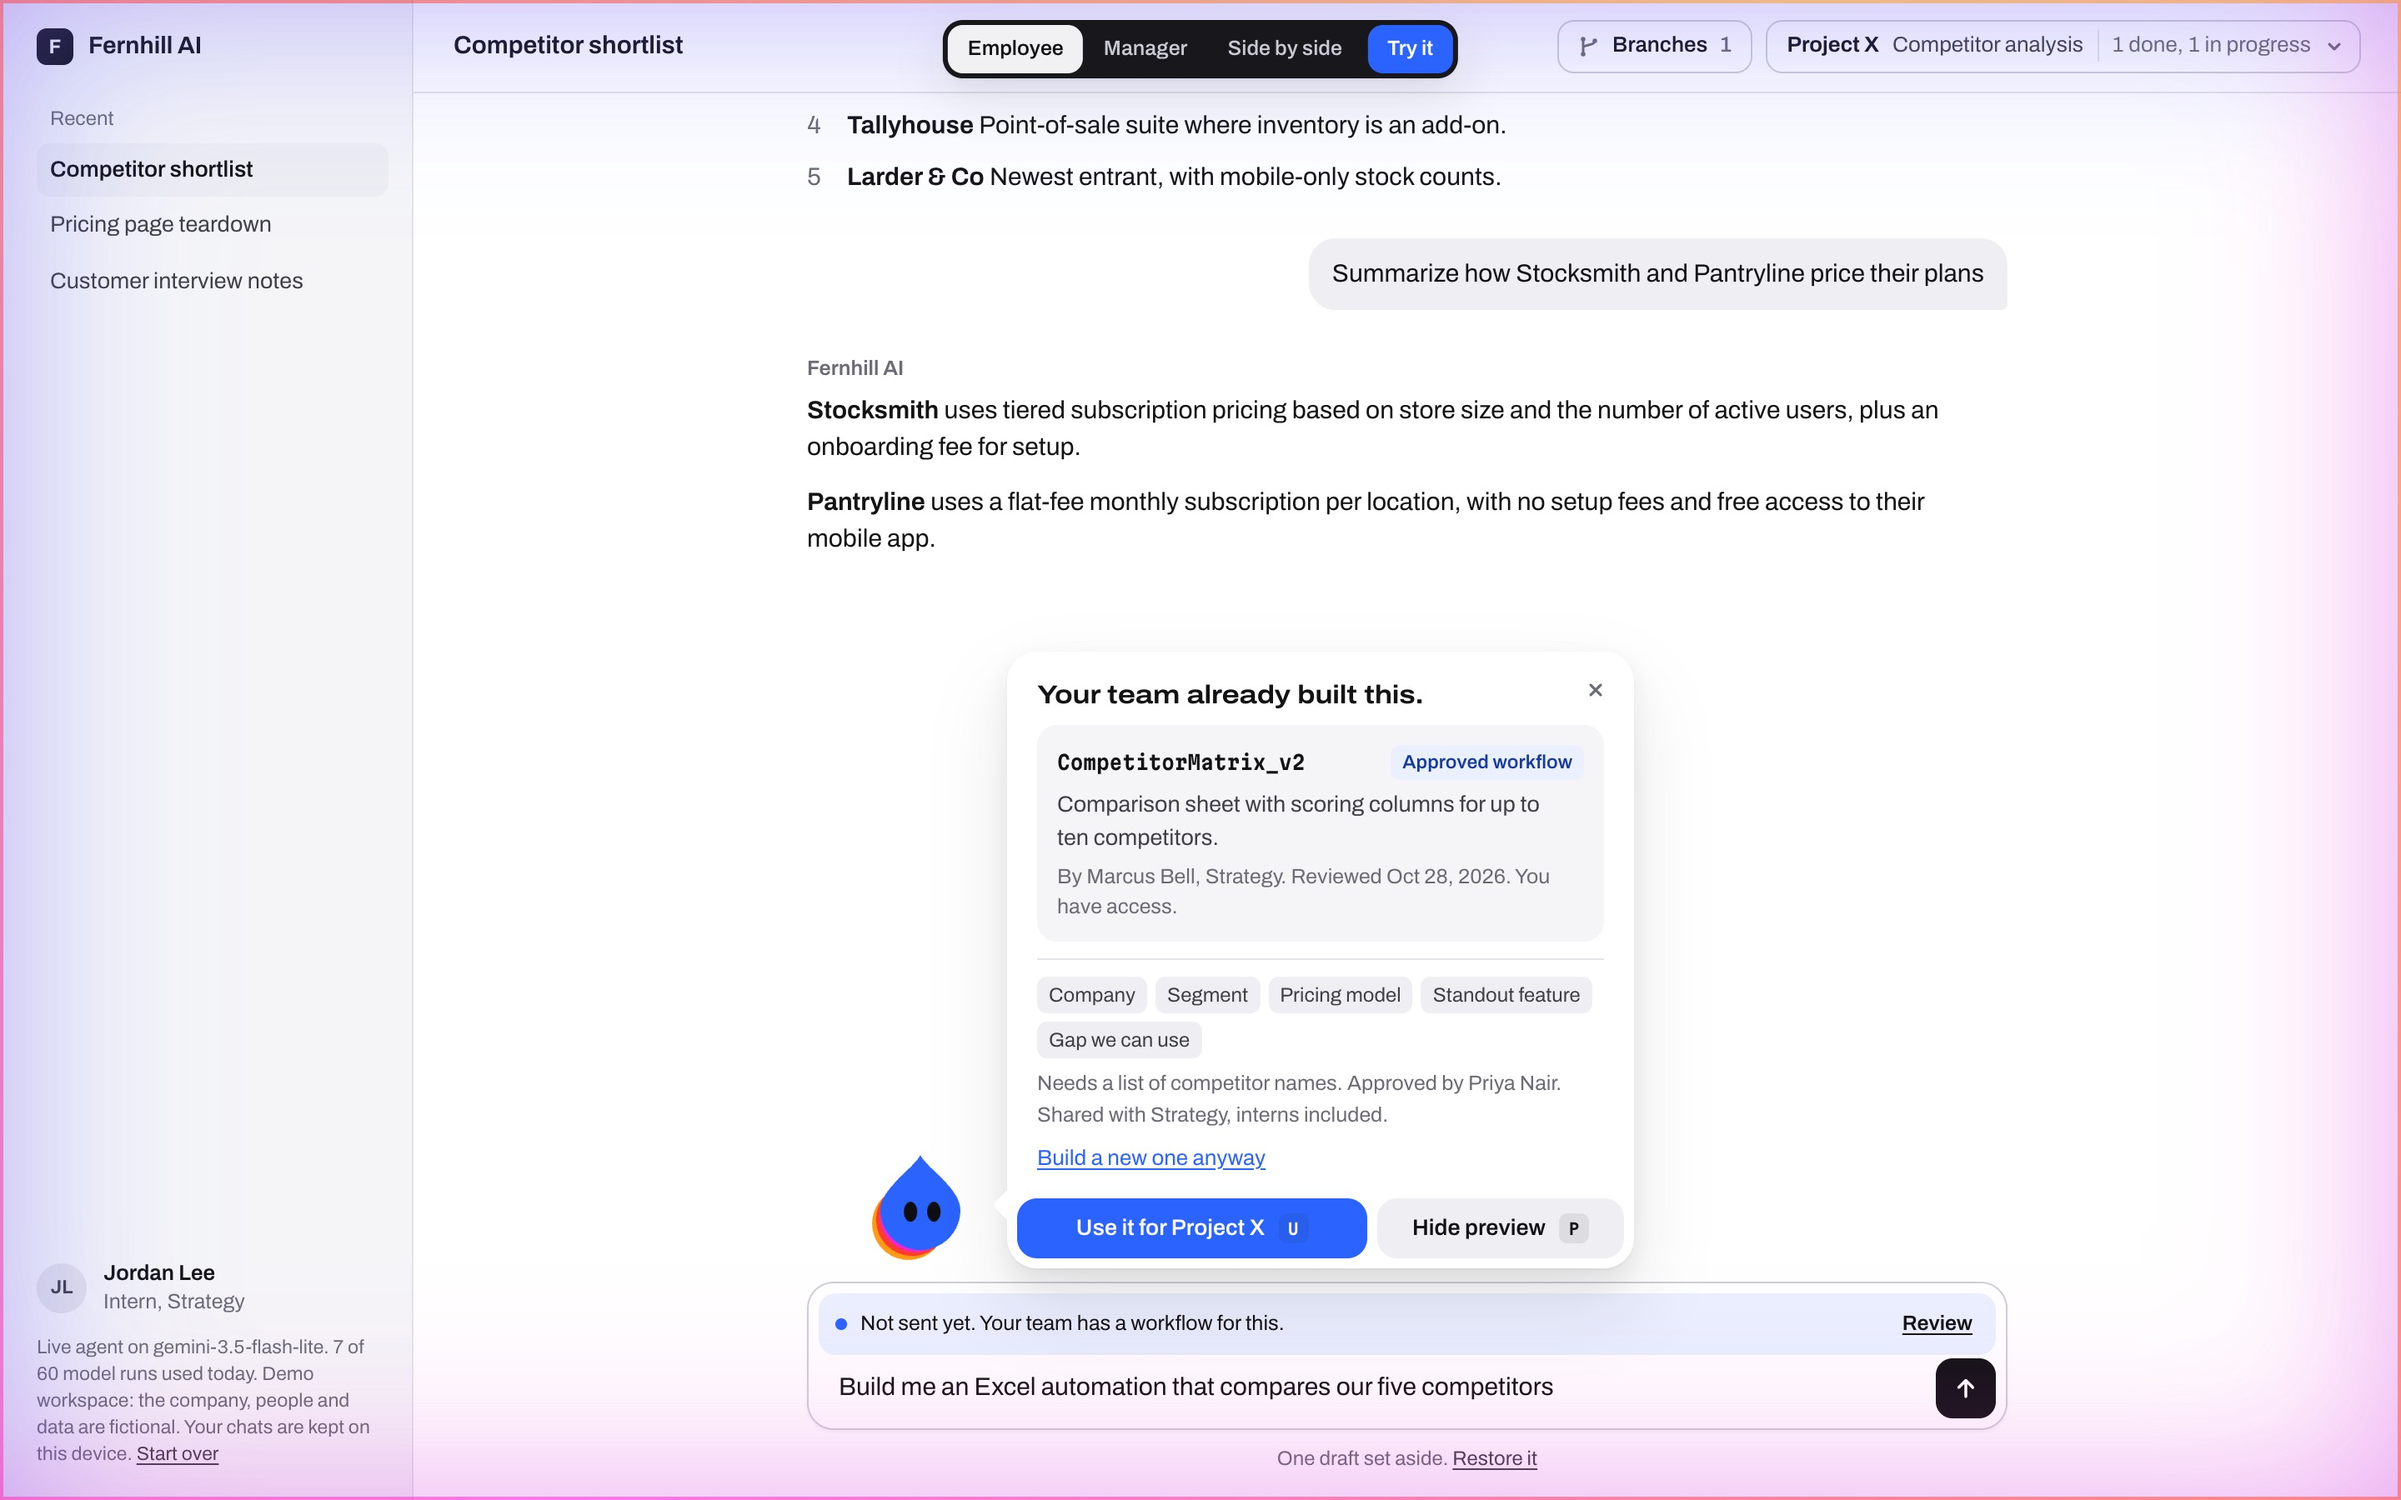
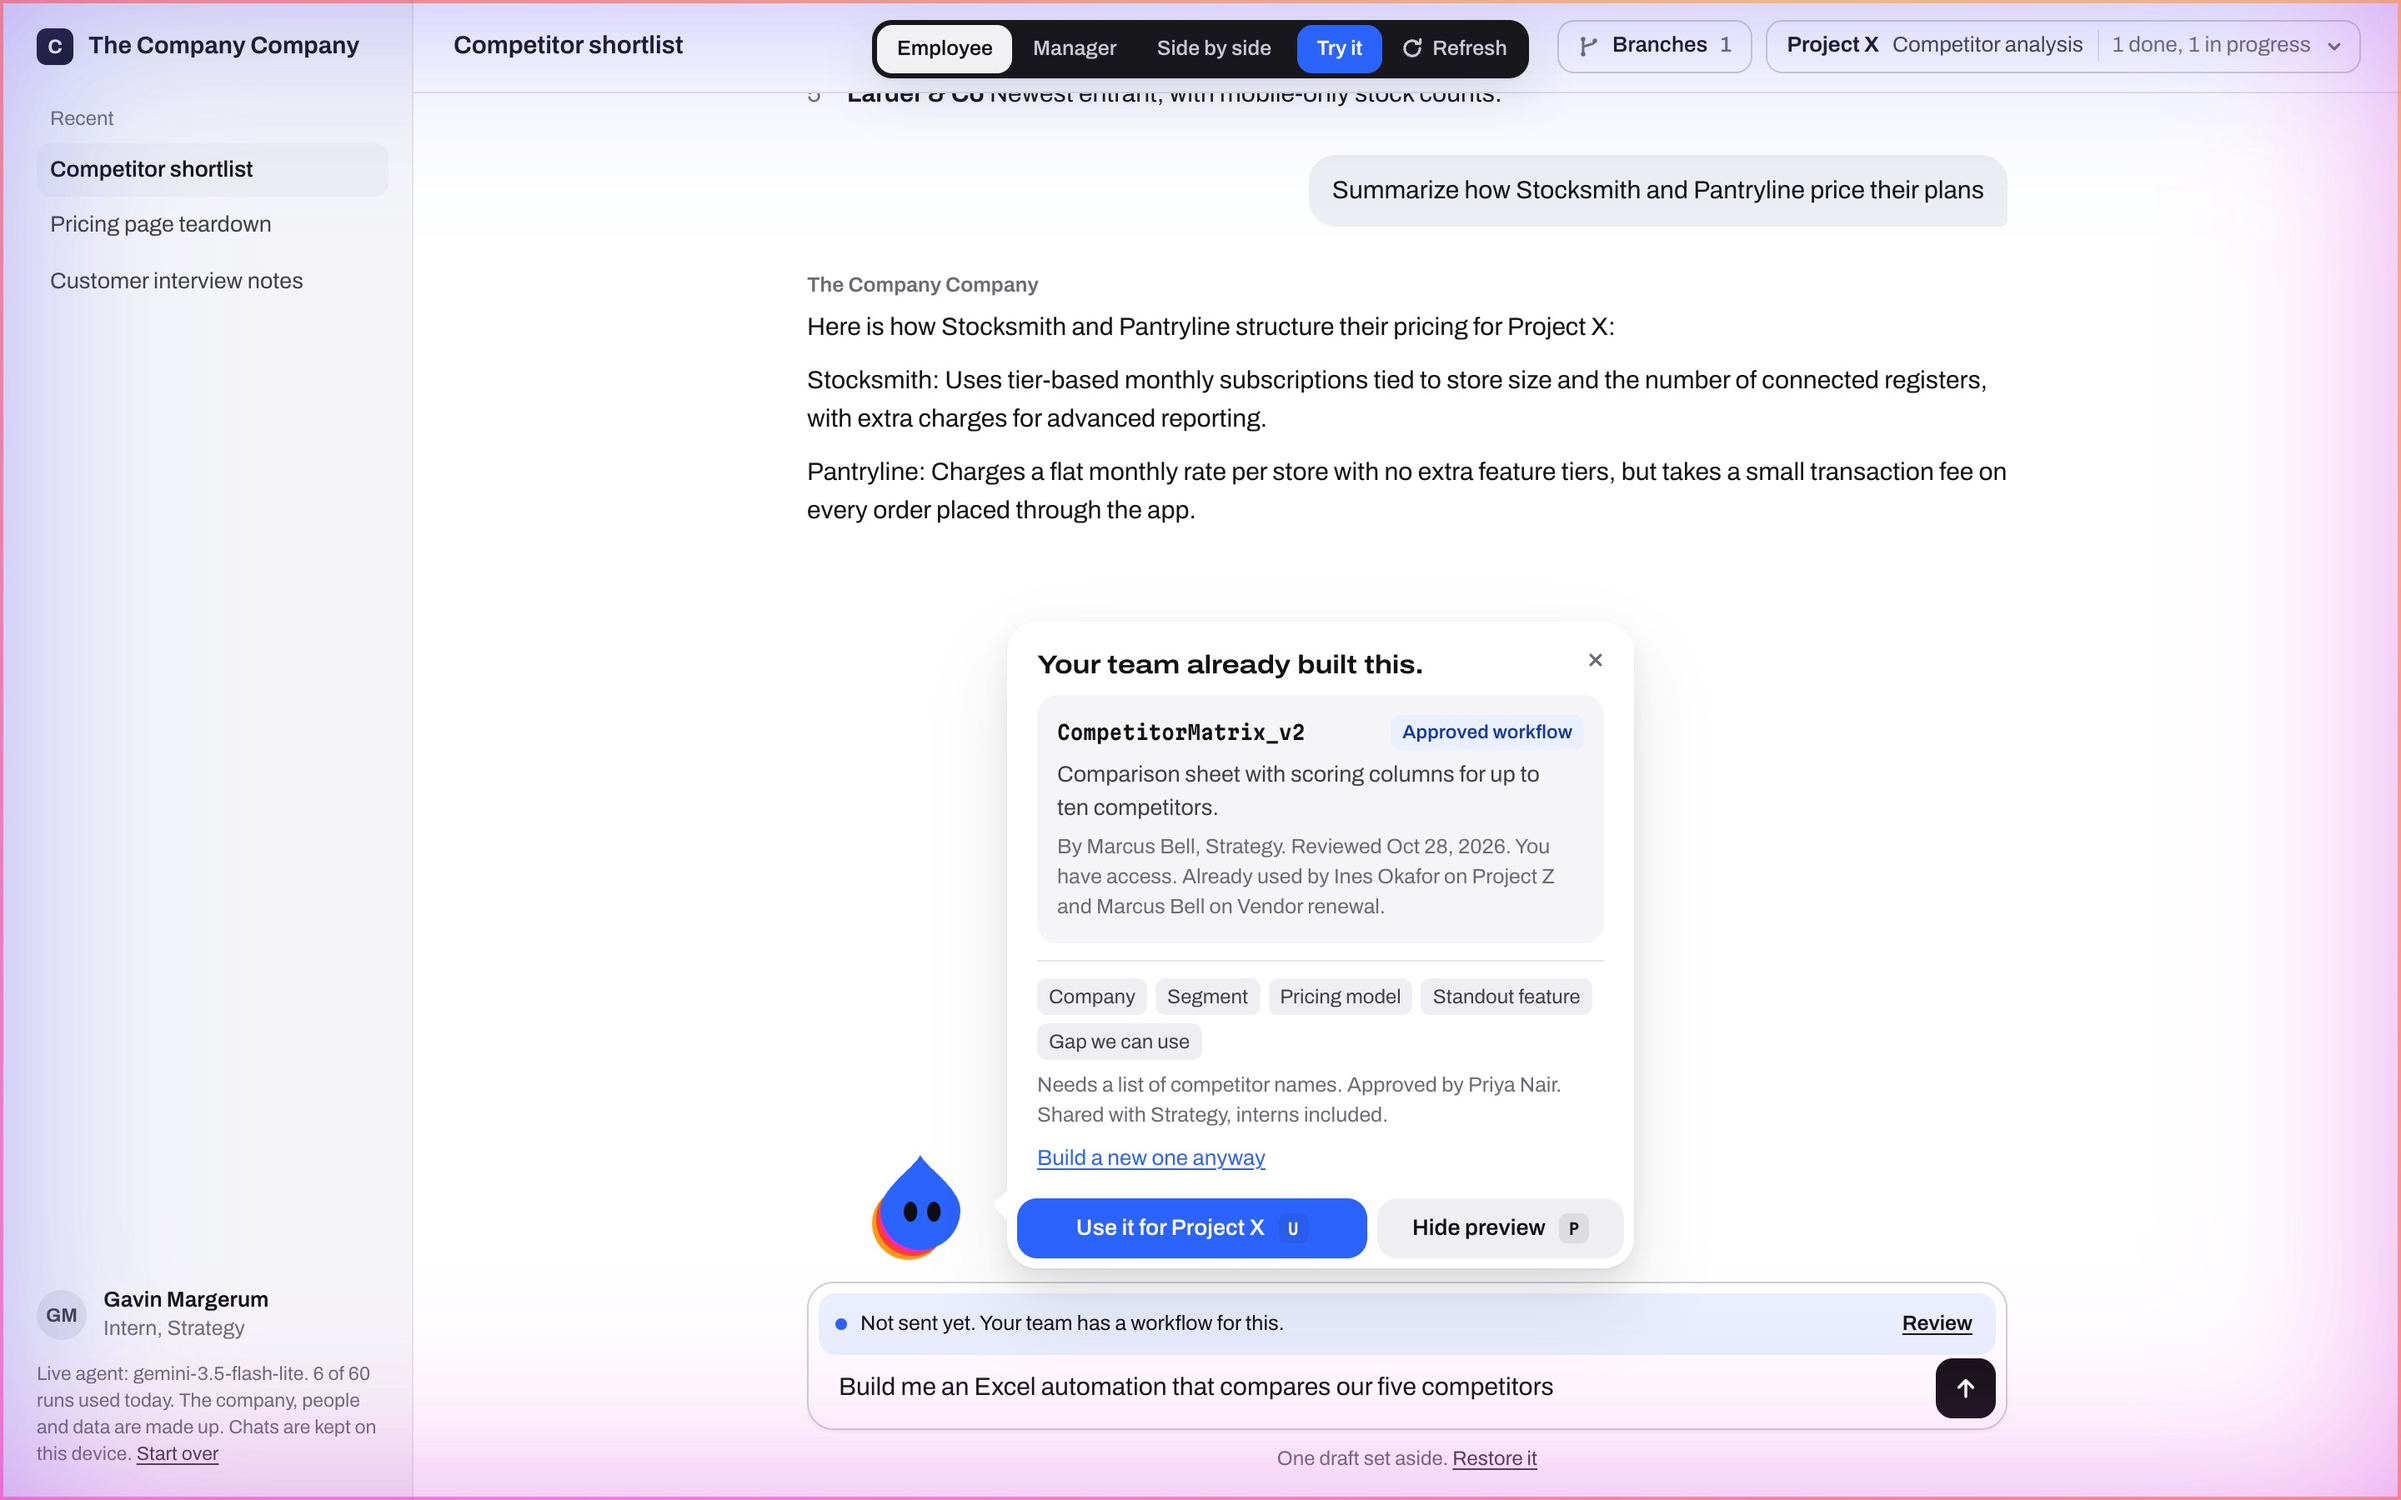
Retake the pictures with the new names and features, and tidy the top bar on narrower windows
- docs/shots: 17 pictures from one paced session with the live agent, now showing
  The Company Company and Gavin Margerum, the Try it and Refresh buttons, finding a
  prompt by following the branches, how teammates did similar work, and the manager
  clicking through the branch map.
- The picture run leaves a gap between steps, because a free model tier throttles
  when prompts come back to back.
- "How have teammates done this?" shows the two closest matches so the answer fits.
- On narrower windows the workspace's top-bar buttons shrink to stay clear of the
  demo bar.

diff --git a/web/src/styles/branches.css b/web/src/styles/branches.css
@@ -1133,10 +1133,17 @@ button.bmap__dot:hover::after,
   outline-offset: 1px;
 }
 
-/* A narrower window, or half of the side-by-side view: keep room for the chat's name. */
-@media (max-width: 1040px) {
+/* A narrower window, or half of the side-by-side view: keep the top bar's buttons clear of the
+   demo bar in the middle, and keep room for the chat's name. */
+@media (max-width: 1420px) {
   .topbar__branches span,
   .proj__title {
+    display: none;
+  }
+}
+
+@media (max-width: 1180px) {
+  .proj__count {
     display: none;
   }
 }

diff --git a/web/src/styles/manager.css b/web/src/styles/manager.css
@@ -807,9 +807,18 @@
   color: #a4a4b0;
 }
 
-@media (max-width: 560px) {
-  .views a[data-view='both'],
+@media (max-width: 1180px) {
   .views__refresh span {
+    display: none;
+  }
+
+  .views__refresh {
+    padding: 5px 8px;
+  }
+}
+
+@media (max-width: 560px) {
+  .views a[data-view='both'] {
     display: none;
   }
 
